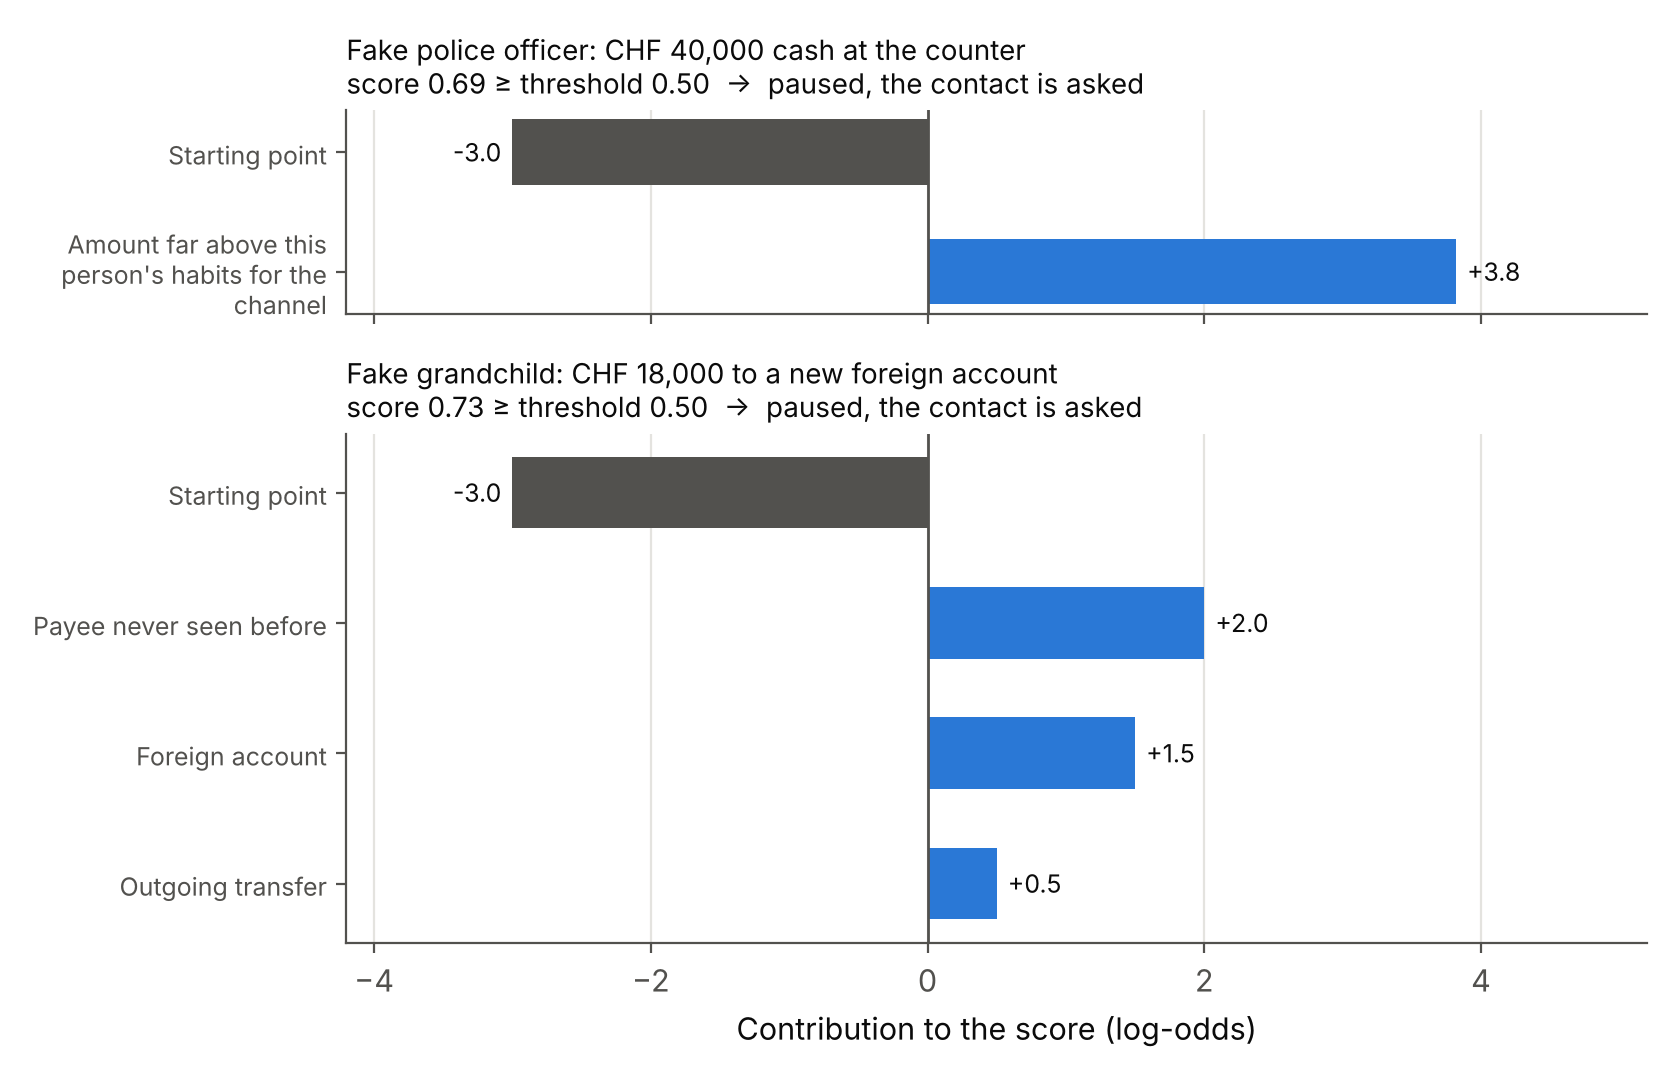
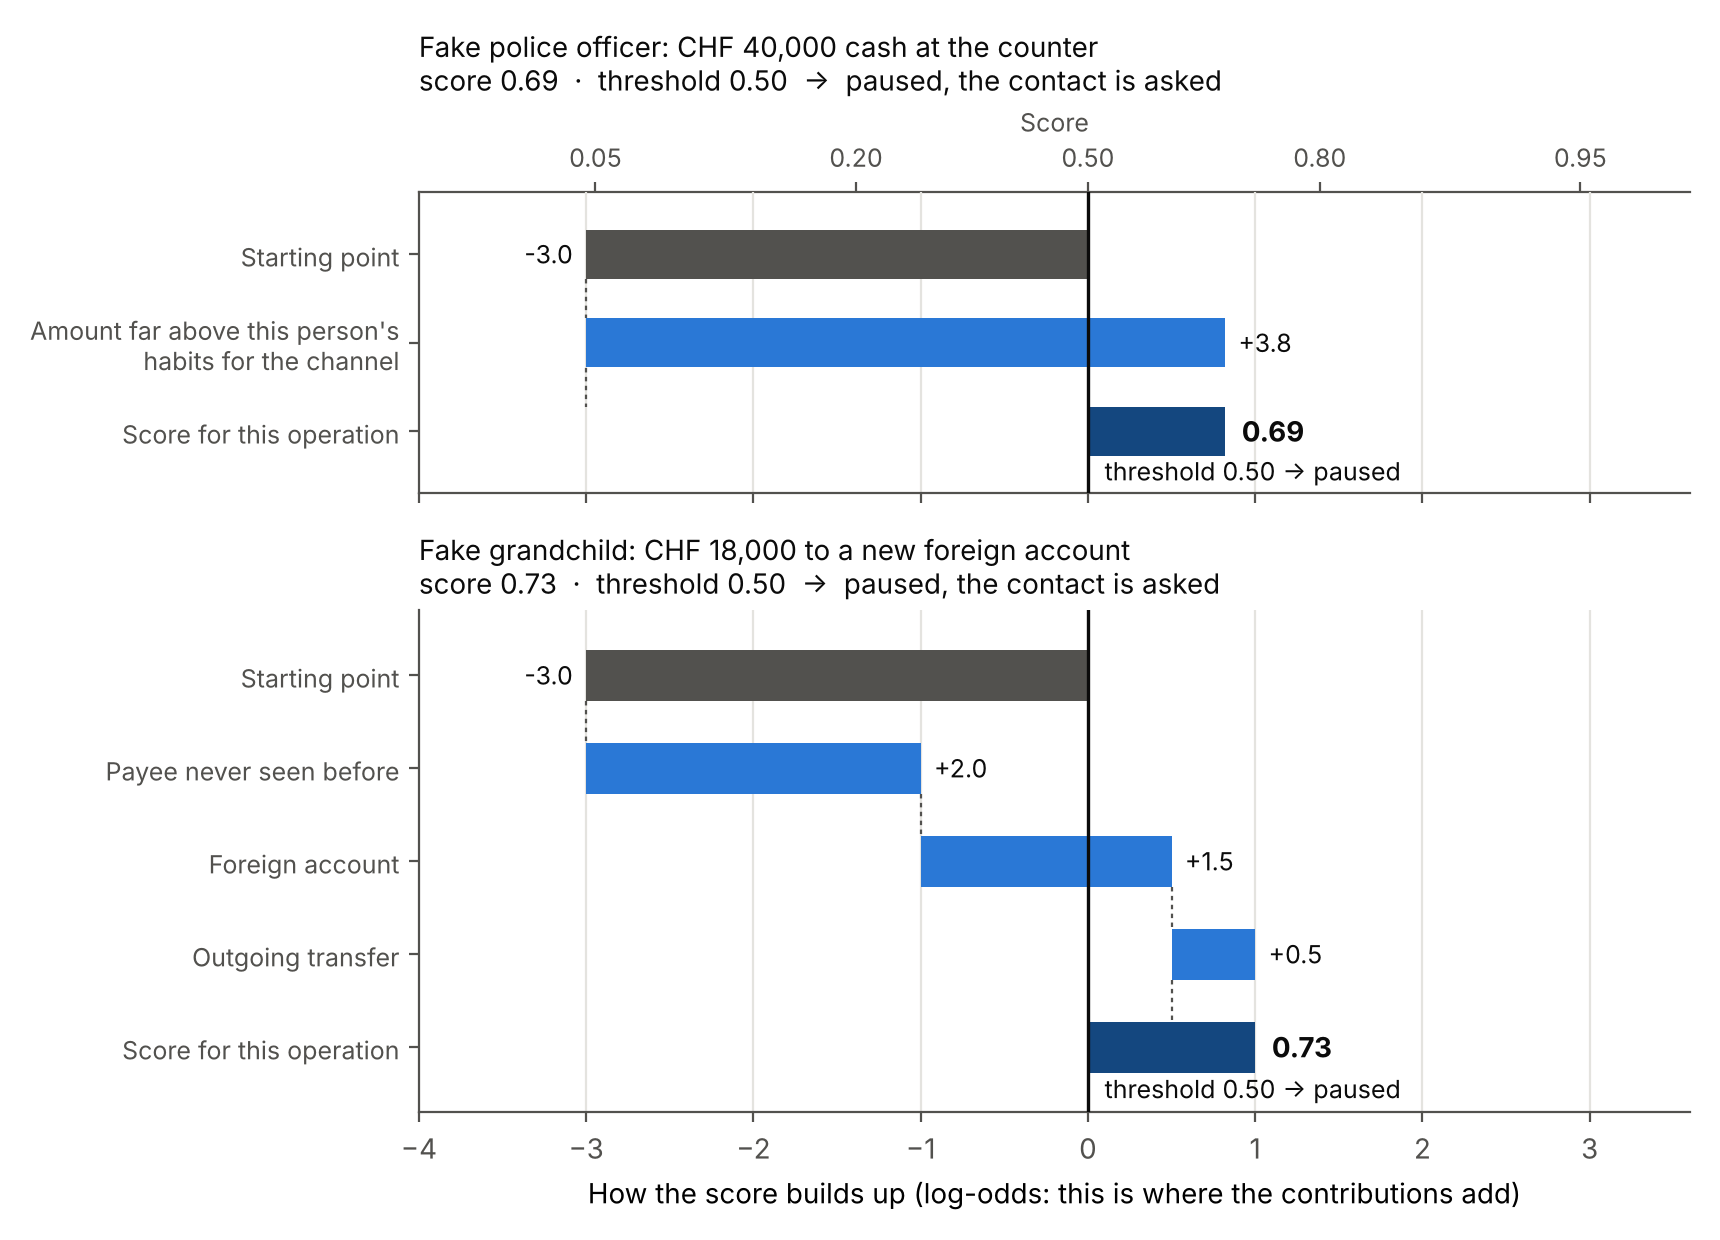
Guard against pooled scoring; why_paused as a waterfall

diff --git a/backend/scripts/figura_perche_in_pausa.py b/backend/scripts/figura_perche_in_pausa.py
@@ -1,0 +1,134 @@
+"""Appendix figure: every pause comes with its reason, as a waterfall.
+
+Proposed addition · branch `modello`.
+
+Replaces the side-by-side bars generated in notebooks/calibrazione.ipynb (section 7)
+with a real waterfall: the score is built step by step from the starting point to the
+total, so the reader does not have to add the contributions up in their head.
+
+Two readings on the same picture:
+  - bottom axis, log-odds: where the contributions actually add up;
+  - top axis, score: what the number means. The threshold is a vertical line, so
+    "to the right of the line" simply means "paused".
+
+Same two cases, same baseline customer and the same model.spiega() used by the
+counter, the contact's phone and the bank queue.
+
+Usage (from the backend/ folder):
+    python scripts/figura_perche_in_pausa.py
+
+Writes:
+    results/figures/why_paused.png
+"""
+from __future__ import annotations
+
+import os
+import sys
+import textwrap
+
+sys.path.insert(0, os.path.dirname(os.path.dirname(os.path.abspath(__file__))))
+
+import matplotlib  # noqa: E402
+matplotlib.use("Agg")
+import matplotlib.pyplot as plt  # noqa: E402
+import numpy as np  # noqa: E402
+
+from sentinel import model, profiles  # noqa: E402
+
+INK, INK2, ACCENT, GRID = "#0b0b0b", "#52514e", "#2a78d6", "#e4e3df"
+ACCENT_SCURO = "#14477f"   # the total bar: same family as ACCENT, one step darker
+FIGURA = "results/figures/why_paused.png"
+SEED_PERSONA = 7
+
+CASI = [
+    ("Fake police officer: CHF 40,000 cash at the counter",
+     {"canale": "sportello", "importo": 40_000}),
+    ("Fake grandchild: CHF 18,000 to a new foreign account",
+     {"canale": "bonifico", "importo": 18_000, "beneficiario": "Foreign IBAN",
+      "nuovo_beneficiario": True, "estero": True}),
+]
+
+
+def _logit(p: float) -> float:
+    return float(np.log(p / (1 - p)))
+
+
+def _pannello(ax, titolo: str, op: dict, base, soglia: float) -> None:
+    motivi = model.spiega(op, base)
+    score = model.punteggio(op, base)
+    inizio = model.PESI["bias"]
+
+    etichette = ["Starting point"] + [textwrap.fill(m[0][0].upper() + m[0][1:], 30) for m in motivi]
+    passi = [inizio] + [m[1] for m in motivi]
+    cum = np.cumsum(passi)
+    totale = float(cum[-1])
+
+    etichette.append("Score for this operation")
+    y = np.arange(len(etichette))[::-1]          # first row at the top
+
+    # the steps of the waterfall
+    for i, (yi, passo) in enumerate(zip(y[:-1], passi)):
+        sinistra = 0.0 if i == 0 else float(cum[i - 1])
+        colore = INK2 if i == 0 else ACCENT
+        ax.barh(yi, passo, left=sinistra, height=0.55, color=colore, zorder=3)
+        ax.text(sinistra + passo + (0.08 if passo >= 0 else -0.08), yi, f"{passo:+.1f}",
+                va="center", ha="left" if passo >= 0 else "right", color=INK, fontsize=9)
+        if i < len(passi) - 1:                   # connector to the next step
+            ax.plot([cum[i], cum[i]], [yi - 0.28, yi - 0.72], color=INK2, lw=0.8,
+                    ls=(0, (2, 2)), zorder=2)
+
+    # the total bar
+    ax.barh(y[-1], totale, left=0.0, height=0.55,
+            color=ACCENT_SCURO if totale >= _logit(soglia) else INK2, zorder=3)
+    ax.text(totale + 0.10, y[-1], f"{score:.2f}", va="center", ha="left",
+            color=INK, fontsize=10, fontweight="bold")
+    ax.plot([cum[-2], cum[-2]], [y[-2] - 0.28, y[-1] + 0.28], color=INK2, lw=0.8,
+            ls=(0, (2, 2)), zorder=2)
+
+    ax.axvline(_logit(soglia), color=INK, lw=1.2, zorder=4)
+    ax.set_yticks(y, etichette, fontsize=9)
+    ax.set_ylim(-0.7, len(etichette) - 0.3)
+    esito = "paused, the contact is asked" if score >= soglia else "no pause"
+    ax.set_title(f"{titolo}\nscore {score:.2f}  ·  threshold {soglia:.2f}  →  {esito}",
+                 loc="left", color=INK, fontsize=10)
+    ax.grid(axis="x", color=GRID, lw=0.8)
+    ax.set_axisbelow(True)
+
+
+def main() -> None:
+    base = model.adatta_baseline(profiles.genera_storico("anziano", seed=SEED_PERSONA))
+    soglia = model.SOGLIA
+    righe = [1 + len(model.spiega(op, base)) + 1 for _, op in CASI]
+
+    plt.rcParams.update({"font.size": 10, "axes.spines.top": False, "axes.spines.right": False,
+                         "axes.edgecolor": INK2, "xtick.color": INK2, "ytick.color": INK2})
+    fig, axes = plt.subplots(len(CASI), 1, figsize=(8.6, 6.2), sharex=True,
+                             gridspec_kw={"height_ratios": righe})
+    for ax, (titolo, op) in zip(axes, CASI):
+        _pannello(ax, titolo, op, base, soglia)
+
+    axes[-1].set_xlim(-4.0, 3.6)
+    axes[-1].set_xlabel("How the score builds up (log-odds: this is where the contributions add)")
+
+    # second reading: the same axis, labelled as a score
+    alto = axes[0].secondary_xaxis("top")
+    ticks = [0.05, 0.2, 0.5, 0.8, 0.95]
+    alto.set_xticks([_logit(t) for t in ticks], [f"{t:.2f}" for t in ticks], fontsize=9)
+    alto.set_xlabel("Score", fontsize=9, color=INK2)
+    alto.spines["top"].set_color(INK2)
+    alto.tick_params(colors=INK2)
+
+    for ax in axes:
+        ax.annotate(f"threshold {soglia:.2f} \u2192 paused", xy=(_logit(soglia), -0.45),
+                    xytext=(6, 0), textcoords="offset points", color=INK, fontsize=9,
+                    va="center", ha="left")
+
+    fig.tight_layout()
+    os.makedirs(os.path.dirname(FIGURA), exist_ok=True)
+    fig.savefig(FIGURA, dpi=200)
+    plt.close(fig)
+    print(f"written: {FIGURA}")
+
+
+if __name__ == "__main__":
+    main()

diff --git a/backend/sentinel/model.py b/backend/sentinel/model.py
@@ -153,9 +153,19 @@ def _sigmoid(x):
 
 
 def punteggia(df: pd.DataFrame, base: Baseline, pesi: dict | None = None) -> np.ndarray:
-    """Anomaly score in [0, 1] for every row of a DataFrame of operations (0 for card payments)."""
+    """Anomaly score in [0, 1] for every row of a DataFrame of operations (0 for card payments).
+
+    ONE customer at a time. Two signals are computed over the whole frame - the safe
+    deposit box and a cash withdrawal on the same DAY, and the POA holder's WEEKLY
+    total - so a pooled frame would let one customer's day raise another's score.
+    For a portfolio use economics.punteggia_portafoglio(), which loops per customer.
+    """
     if len(df) == 0:
         return np.array([], dtype=float)
+    if "cliente" in df.columns and df["cliente"].nunique() > 1:
+        raise ValueError(
+            "punteggia() scores one customer at a time: the same-day and weekly signals "
+            "would mix customers in a pooled frame. Use economics.punteggia_portafoglio().")
     p = {**PESI, **(pesi or {})}
     score = _sigmoid(p["bias"] + _contributi(df, base, p).sum(axis=1).to_numpy())
     return np.where(df["canale"].to_numpy() == "carta", 0.0, score)

diff --git a/backend/tests/test_contratti.py b/backend/tests/test_contratti.py
@@ -9,6 +9,7 @@ sys.path.insert(0, os.path.dirname(os.path.dirname(os.path.abspath(__file__))))
 
 import numpy as np  # noqa: E402
 import pandas as pd  # noqa: E402
+import pytest  # noqa: E402
 
 from sentinel import economics, model, profiles  # noqa: E402
 from sentinel.workflow import (ATTESA_REVOCA_ORE, Contatto, decidi, destinazione_finale,  # noqa: E402
@@ -47,6 +48,14 @@ def test_portfolio_structure():
 
 
 # ---------------------------------------------------------------- model
+def test_punteggia_refuses_a_pooled_portfolio():
+    """The same-day and weekly signals look at the whole frame: one customer at a time."""
+    port = profiles.genera_portafoglio(n_clienti=3, prob_frode=0.0, seed=5)
+    assert port["cliente"].nunique() > 1
+    with pytest.raises(ValueError, match="one customer at a time"):
+        model.punteggia(port, BASE)
+
+
 def test_scores_are_probabilities_and_explainable():
     s = model.punteggia(profiles.genera_storico("anziano", seed=2), BASE)
     assert ((s >= 0) & (s <= 1)).all()
